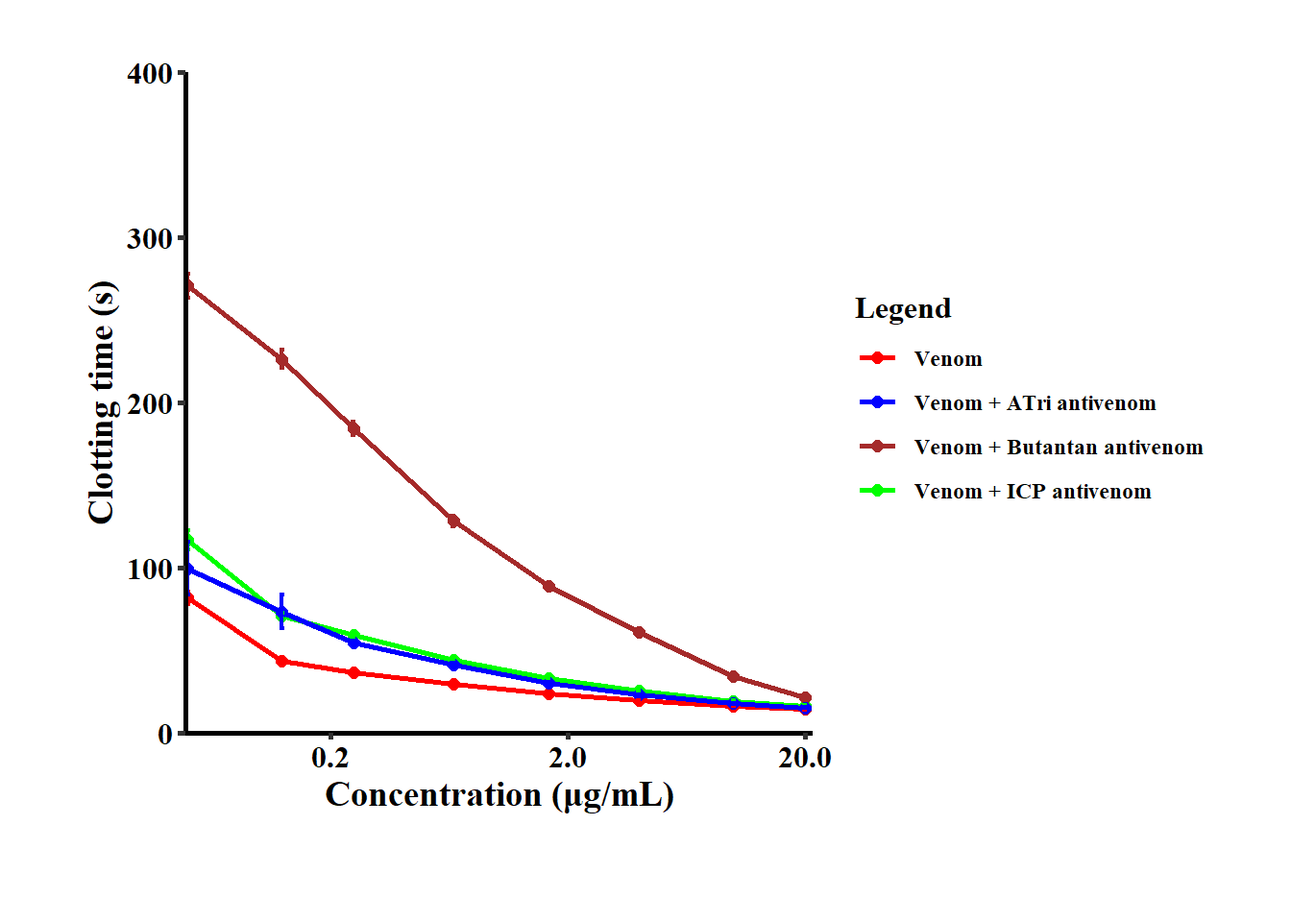
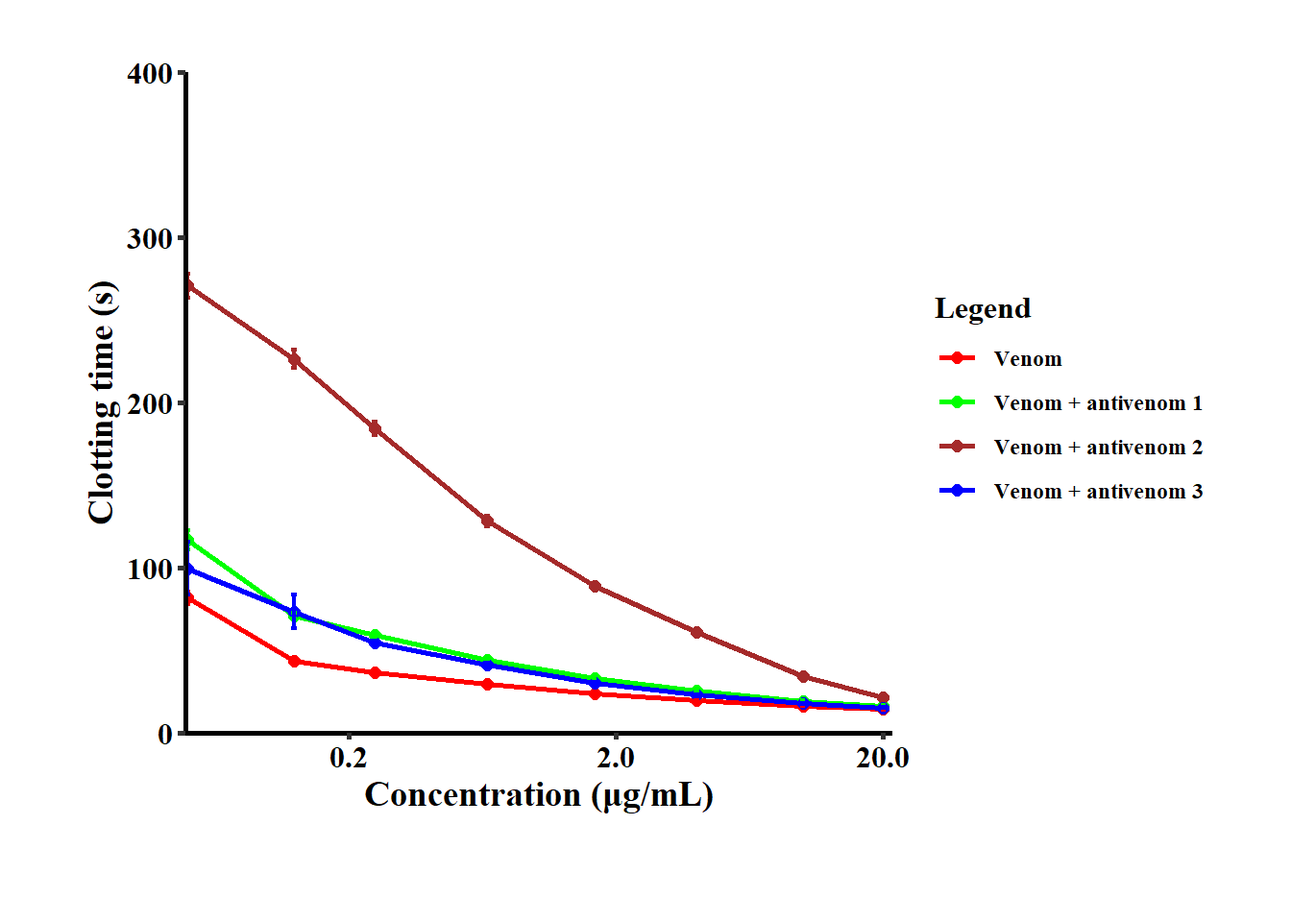
Post 1 edit

diff --git a/_site/posts/Tidy_data/index.html b/_site/posts/Tidy_data/index.html
@@ -208,7 +208,7 @@ code span.wa { color: #60a0b0; font-weight: bold; font-style: italic; } /* Warni
 
 
 
-<p>Hi everyone! In this post we are going to talk about the tidyverse, specifically how to get our data into the tidy format and why this matters when using ggplot2! Are you ready to enter the tidyverse? First things first you will need to install the package “tidyverse” and then load it in you r script using the following code.</p>
+<p>Hi everyone! In this post we are going to talk about the tidyverse, specifically how to get our data into the tidy format and why this matters when using ggplot2! Are you ready to enter the tidyverse? First things first you will need to install the package “tidyverse” and then load it in your r script using the following code.</p>
 <div class="cell">
 <div class="sourceCode cell-code" id="cb1"><pre class="sourceCode r code-with-copy"><code class="sourceCode r"><span id="cb1-1"><a href="#cb1-1" aria-hidden="true" tabindex="-1"></a><span class="fu">library</span>(tidyverse)</span></code><button title="Copy to Clipboard" class="code-copy-button"><i class="bi"></i></button></pre></div>
 <div class="cell-output cell-output-stderr">
@@ -230,8 +230,12 @@ code span.wa { color: #60a0b0; font-weight: bold; font-style: italic; } /* Warni
 ✖ dplyr::lag()    masks stats::lag()</code></pre>
 </div>
 </div>
-<p>So what is the tidyverse? Simply, ….. For more detailed information on the tidyverse and how to use it to its full advantage, see….. . One of the packages is ggplot2 - an amazing package that can be used to produce figures in R (think bar graphs, line graphs, scatter plots, etc.). For more information on this package see. Note, that this blog post isn’t an introduction to tidyverse or ggplot2, but rather highlights the importance making figures with tidy data. It is expected you have some background in these packages.</p>
-<p>So, why does tidy data matter? Well first and foremost, and the reason for this blog post, it will make your life a lot easier when making figures in ggplot2 (a package that is loaded when you load the tidyverse).</p>
+<p>So what is the tidyverse? Simply, ….. For more detailed information on the tidyverse and how to use it to its full advantage, see….. . One of the packages is ggplot2 - an amazing package that can be used to produce figures in R (think bar graphs, line graphs, scatter plots, etc.). For more information on this package see. Note, that this blog post isn’t an introduction to tidyverse or ggplot2, but rather highlights the importance making figures with tidy data. It is expected you have some background in these packages. I will quickly explain what tidy data is though!</p>
+<p>Tidy data is a way to set up your data. Simply, columns are variables, rows are observations, and each cell is a single value.</p>
+<p><img src="images/tidy-1.png" class="img-fluid"></p>
+<p>credit: <a href="https://r4ds.hadley.nz/data-tidy.html">R for Data Science (2e) - 6&nbsp; Data tidying (hadley.nz)</a></p>
+<p>I highly recommend you read this: <a href="https://www.openscapes.org/blog/2020/10/12/tidy-data/">Tidy data for efficiency, reproducibility, and collaboration (openscapes.org)</a></p>
+<p>So, why does tidy data matter? Imagine if everybody’s data sets were set up the same way! You could use the same code to work with them! It makes life easier. The reason for this blog post is that it will make your life a lot easier when making figures in ggplot2. Let’s look at an example. Below I’ve loaded in some data looking at how quickly snake X clots the blood and how well antivenom works for snake X. The first column is venom concentration, followed by three columns (three replicates) of venom with no antivenom, three columns of venom incubated with antivenom 1, three coumns of venom incubated with antivenom 2, and three columns of venom incubated with antivenom 3.</p>
 <div class="cell">
 <div class="sourceCode cell-code" id="cb6"><pre class="sourceCode r code-with-copy"><code class="sourceCode r"><span id="cb6-1"><a href="#cb6-1" aria-hidden="true" tabindex="-1"></a><span class="fu">library</span>(tidyverse)</span>
 <span id="cb6-2"><a href="#cb6-2" aria-hidden="true" tabindex="-1"></a>venom_data<span class="ot">&lt;-</span><span class="fu">read_csv</span>(<span class="st">"venom_data.csv"</span>)</span></code><button title="Copy to Clipboard" class="code-copy-button"><i class="bi"></i></button></pre></div>
@@ -262,6 +266,13 @@ dbl (13): Concentration, BC_1, BC_2, BC_3, BC_ICP1, BC_ICP2, BC_ICP3, BC_But...
 #   ⁴BC_Butantan3</code></pre>
 </div>
 </div>
+<p>Now that the data is loaded we want to modify the raw data so we have the mean and standard deviation values. We will then use this summarised data to make a plot that looks like this:</p>
+<p><img src="images/2bced39e-0d62-4c49-885d-10e4905d74be.png" class="img-fluid"></p>
+<p>Okay, let’s talk about this graph, so you can understand the data a bit better.</p>
+<ol type="1">
+<li><strong>Data not tidied! :(</strong></li>
+</ol>
+<p>Let’s summarise our data (get means and standard deviation), but not worry about tidying the data.</p>
 <div class="cell">
 <div class="sourceCode cell-code" id="cb10"><pre class="sourceCode r code-with-copy"><code class="sourceCode r"><span id="cb10-1"><a href="#cb10-1" aria-hidden="true" tabindex="-1"></a>venom_data_summarised <span class="ot">&lt;-</span> venom_data <span class="sc">%&gt;%</span> <span class="co">#Calculate standard deviation for each venom and venom + antivenom at each concentration</span></span>
 <span id="cb10-2"><a href="#cb10-2" aria-hidden="true" tabindex="-1"></a>  <span class="fu">rowwise</span>() <span class="sc">%&gt;%</span> </span>
@@ -274,44 +285,60 @@ dbl (13): Concentration, BC_1, BC_2, BC_3, BC_ICP1, BC_ICP2, BC_ICP3, BC_But...
 <span id="cb10-9"><a href="#cb10-9" aria-hidden="true" tabindex="-1"></a>    <span class="at">BC_Butantan_sd =</span> <span class="fu">sd</span>(<span class="fu">c_across</span>(BC_Butantan1<span class="sc">:</span>BC_Butantan3)),</span>
 <span id="cb10-10"><a href="#cb10-10" aria-hidden="true" tabindex="-1"></a>    <span class="at">BC_ATri_sd =</span> <span class="fu">sd</span>(<span class="fu">c_across</span>(BC_ATri1<span class="sc">:</span>BC_ATri3)))<span class="sc">%&gt;%</span></span>
 <span id="cb10-11"><a href="#cb10-11" aria-hidden="true" tabindex="-1"></a>  <span class="fu">select</span>(Concentration,BC_mean, BC_ICP_mean, BC_Butantan_mean, BC_ATri_mean, </span>
-<span id="cb10-12"><a href="#cb10-12" aria-hidden="true" tabindex="-1"></a>         BC_sd, BC_ICP_sd, BC_Butantan_sd, BC_ATri_sd)</span></code><button title="Copy to Clipboard" class="code-copy-button"><i class="bi"></i></button></pre></div>
+<span id="cb10-12"><a href="#cb10-12" aria-hidden="true" tabindex="-1"></a>         BC_sd, BC_ICP_sd, BC_Butantan_sd, BC_ATri_sd)</span>
+<span id="cb10-13"><a href="#cb10-13" aria-hidden="true" tabindex="-1"></a>venom_data_summarised</span></code><button title="Copy to Clipboard" class="code-copy-button"><i class="bi"></i></button></pre></div>
+<div class="cell-output cell-output-stdout">
+<pre><code># A tibble: 8 × 9
+# Rowwise: 
+  Concentration BC_mean BC_ICP_…¹ BC_Bu…² BC_AT…³  BC_sd BC_IC…⁴ BC_Bu…⁵ BC_AT…⁶
+          &lt;dbl&gt;   &lt;dbl&gt;     &lt;dbl&gt;   &lt;dbl&gt;   &lt;dbl&gt;  &lt;dbl&gt;   &lt;dbl&gt;   &lt;dbl&gt;   &lt;dbl&gt;
+1        20        14.2      16.1    21.1    15.2 0.115    0.252   0.321   0.100
+2        10        16.3      19.2    34.2    17.7 0.0577   0.231   0.802   0.361
+3         4        19.5      25.4    60.6    22.9 0        0.321   0.808   0.153
+4         1.66     23.6      33.1    88.9    30.1 0.503    0.252   1.45    0.777
+5         0.66     29.2      43.8   128.     40.8 0.520    1.01    3.17    1.29 
+6         0.25     36.7      58.9   184.     54.7 0.569    0.833   4.11    0.208
+7         0.125    43.2      70.8   226.     73.2 0.709    1.67    5.67   10.1  
+8         0.05     81.6     117.    271.     99.5 3.89     5.72    7.27   15.8  
+# … with abbreviated variable names ¹BC_ICP_mean, ²BC_Butantan_mean,
+#   ³BC_ATri_mean, ⁴BC_ICP_sd, ⁵BC_Butantan_sd, ⁶BC_ATri_sd</code></pre>
 </div>
-<p>Now….</p>
+</div>
+<p>With our data now summarised we can use this new data frame to make our graph.</p>
 <div class="cell">
-<div class="sourceCode cell-code" id="cb11"><pre class="sourceCode r code-with-copy"><code class="sourceCode r"><span id="cb11-1"><a href="#cb11-1" aria-hidden="true" tabindex="-1"></a><span class="fu">windowsFonts</span>(<span class="at">Times=</span><span class="fu">windowsFont</span>(<span class="st">"Times New Roman"</span>)) </span>
-<span id="cb11-2"><a href="#cb11-2" aria-hidden="true" tabindex="-1"></a></span>
-<span id="cb11-3"><a href="#cb11-3" aria-hidden="true" tabindex="-1"></a>colors <span class="ot">&lt;-</span> <span class="fu">c</span>(<span class="st">"Venom"</span><span class="ot">=</span><span class="st">"red"</span>, <span class="st">"Venom + ICP antivenom"</span><span class="ot">=</span><span class="st">"green"</span>, <span class="st">"Venom + Butantan antivenom"</span> <span class="ot">=</span> <span class="st">"brown"</span>, </span>
-<span id="cb11-4"><a href="#cb11-4" aria-hidden="true" tabindex="-1"></a>            <span class="st">"Venom + ATri antivenom"</span> <span class="ot">=</span> <span class="st">"blue"</span>)</span>
-<span id="cb11-5"><a href="#cb11-5" aria-hidden="true" tabindex="-1"></a></span>
-<span id="cb11-6"><a href="#cb11-6" aria-hidden="true" tabindex="-1"></a>BC_graph <span class="ot">&lt;-</span> <span class="fu">ggplot</span>(venom_data_summarised, <span class="fu">aes</span>(<span class="at">x=</span>Concentration)) <span class="sc">+</span></span>
-<span id="cb11-7"><a href="#cb11-7" aria-hidden="true" tabindex="-1"></a>  <span class="fu">geom_line</span>(<span class="fu">aes</span>(<span class="at">y=</span>BC_mean, <span class="at">color =</span> <span class="st">"Venom"</span>), <span class="at">linewidth =</span> <span class="dv">1</span>) <span class="sc">+</span></span>
-<span id="cb11-8"><a href="#cb11-8" aria-hidden="true" tabindex="-1"></a>  <span class="fu">geom_point</span>(<span class="fu">aes</span>(<span class="at">y=</span>BC_mean, <span class="at">colour =</span> <span class="st">"Venom"</span>), <span class="at">size =</span> <span class="dv">2</span>)<span class="sc">+</span></span>
-<span id="cb11-9"><a href="#cb11-9" aria-hidden="true" tabindex="-1"></a>  <span class="fu">geom_line</span>(<span class="fu">aes</span>(<span class="at">y=</span>BC_ICP_mean, <span class="at">color =</span> <span class="st">"Venom + ICP antivenom"</span>), <span class="at">linewidth =</span> <span class="dv">1</span>) <span class="sc">+</span></span>
-<span id="cb11-10"><a href="#cb11-10" aria-hidden="true" tabindex="-1"></a>  <span class="fu">geom_point</span>(<span class="fu">aes</span>(<span class="at">y=</span>BC_ICP_mean, <span class="at">color =</span> <span class="st">"Venom + ICP antivenom"</span>), <span class="at">size =</span> <span class="dv">2</span>) <span class="sc">+</span></span>
-<span id="cb11-11"><a href="#cb11-11" aria-hidden="true" tabindex="-1"></a>  <span class="fu">geom_line</span>(<span class="fu">aes</span>(<span class="at">y=</span>BC_Butantan_mean, <span class="at">color =</span> <span class="st">"Venom + Butantan antivenom"</span>), <span class="at">linewidth =</span> <span class="dv">1</span>) <span class="sc">+</span></span>
-<span id="cb11-12"><a href="#cb11-12" aria-hidden="true" tabindex="-1"></a>  <span class="fu">geom_point</span>(<span class="fu">aes</span>(<span class="at">y=</span>BC_Butantan_mean, <span class="at">color =</span> <span class="st">"Venom + Butantan antivenom"</span>), <span class="at">size =</span> <span class="dv">2</span>) <span class="sc">+</span></span>
-<span id="cb11-13"><a href="#cb11-13" aria-hidden="true" tabindex="-1"></a>  <span class="fu">geom_line</span>(<span class="fu">aes</span>(<span class="at">y=</span>BC_ATri_mean, <span class="at">color =</span> <span class="st">"Venom + ATri antivenom"</span>), <span class="at">linewidth =</span> <span class="dv">1</span>) <span class="sc">+</span></span>
-<span id="cb11-14"><a href="#cb11-14" aria-hidden="true" tabindex="-1"></a>  <span class="fu">geom_point</span>(<span class="fu">aes</span>(<span class="at">y=</span>BC_ATri_mean, <span class="at">color =</span> <span class="st">"Venom + ATri antivenom"</span>), <span class="at">size =</span> <span class="dv">2</span>) <span class="sc">+</span></span>
-<span id="cb11-15"><a href="#cb11-15" aria-hidden="true" tabindex="-1"></a>  <span class="fu">theme_classic</span>() <span class="sc">+</span> <span class="co">#theme</span></span>
-<span id="cb11-16"><a href="#cb11-16" aria-hidden="true" tabindex="-1"></a>  <span class="fu">theme</span>(<span class="at">plot.margin =</span> <span class="fu">margin</span>(<span class="dv">1</span>,<span class="dv">1</span>,<span class="fl">1.5</span>,<span class="fl">1.2</span>, <span class="st">"cm"</span>), <span class="co">#margins</span></span>
-<span id="cb11-17"><a href="#cb11-17" aria-hidden="true" tabindex="-1"></a>        <span class="at">axis.text =</span> <span class="fu">element_text</span>(<span class="at">face =</span> <span class="st">"bold"</span>, <span class="at">color=</span><span class="st">"black"</span>, <span class="at">family =</span> <span class="st">"Times"</span>, <span class="at">size =</span> <span class="dv">12</span>), <span class="co"># Axis text formatting</span></span>
-<span id="cb11-18"><a href="#cb11-18" aria-hidden="true" tabindex="-1"></a>        <span class="at">axis.title =</span> <span class="fu">element_text</span>(<span class="at">face =</span> <span class="st">"bold"</span>, <span class="at">color=</span><span class="st">"black"</span>, <span class="at">family =</span> <span class="st">"Times"</span>, <span class="at">size =</span> <span class="dv">14</span>),<span class="co"># Axis title text formatting</span></span>
-<span id="cb11-19"><a href="#cb11-19" aria-hidden="true" tabindex="-1"></a>        <span class="at">axis.line =</span> <span class="fu">element_line</span>(<span class="at">linewidth=</span><span class="dv">1</span>), <span class="at">axis.ticks =</span> <span class="fu">element_line</span>(<span class="at">linewidth =</span> <span class="dv">1</span>), <span class="co"># Axis line and tick size</span></span>
-<span id="cb11-20"><a href="#cb11-20" aria-hidden="true" tabindex="-1"></a>        <span class="at">legend.title =</span> <span class="fu">element_text</span>(<span class="at">face =</span> <span class="st">"bold"</span>, <span class="at">family =</span> <span class="st">"Times"</span>, <span class="at">size =</span> <span class="dv">12</span>),</span>
-<span id="cb11-21"><a href="#cb11-21" aria-hidden="true" tabindex="-1"></a>        <span class="at">legend.text =</span> <span class="fu">element_text</span>(<span class="at">face =</span> <span class="st">"bold"</span>, <span class="at">family =</span> <span class="st">"Times"</span>))<span class="sc">+</span></span>
-<span id="cb11-22"><a href="#cb11-22" aria-hidden="true" tabindex="-1"></a>  <span class="fu">scale_x_continuous</span>(<span class="at">trans =</span> <span class="st">"log10"</span>, <span class="at">breaks =</span> <span class="fu">c</span>(<span class="fl">0.2</span>, <span class="dv">2</span>, <span class="dv">20</span>), <span class="at">expand =</span> <span class="fu">expansion</span>(<span class="at">mult =</span> <span class="fu">c</span>(<span class="dv">0</span>,<span class="fl">0.01</span>)))<span class="sc">+</span> <span class="co">#log scale, breaks, and intercept of y and x axis = 0 (no gap before line graph)</span></span>
-<span id="cb11-23"><a href="#cb11-23" aria-hidden="true" tabindex="-1"></a>  <span class="fu">scale_y_continuous</span>(<span class="at">expand =</span> <span class="fu">c</span>(<span class="dv">0</span>,<span class="dv">0</span>), <span class="at">limits =</span> <span class="fu">c</span>(<span class="dv">0</span>, <span class="dv">400</span>)) <span class="sc">+</span> <span class="co">#limits</span></span>
-<span id="cb11-24"><a href="#cb11-24" aria-hidden="true" tabindex="-1"></a>  <span class="fu">labs</span>(<span class="at">x =</span> <span class="st">"Concentration (μg/mL)"</span>, <span class="at">y =</span> <span class="st">"Clotting time (s)"</span>, <span class="at">color =</span> <span class="st">"Legend"</span>)<span class="sc">+</span></span>
-<span id="cb11-25"><a href="#cb11-25" aria-hidden="true" tabindex="-1"></a>  <span class="fu">scale_color_manual</span>(<span class="at">values =</span> colors) <span class="sc">+</span></span>
-<span id="cb11-26"><a href="#cb11-26" aria-hidden="true" tabindex="-1"></a>  <span class="fu">geom_errorbar</span>(<span class="fu">aes</span>(<span class="at">ymin=</span>BC_mean<span class="sc">-</span>BC_sd, <span class="at">ymax=</span>BC_mean<span class="sc">+</span>BC_sd), <span class="at">width =</span> <span class="fl">0.02</span>, <span class="at">size =</span> <span class="fl">0.8</span>, <span class="at">color =</span> <span class="st">"red"</span>) <span class="sc">+</span></span>
-<span id="cb11-27"><a href="#cb11-27" aria-hidden="true" tabindex="-1"></a>  <span class="fu">geom_errorbar</span>(<span class="fu">aes</span>(<span class="at">ymin=</span>BC_ICP_mean<span class="sc">-</span>BC_ICP_sd, <span class="at">ymax=</span>BC_ICP_mean<span class="sc">+</span>BC_ICP_sd), <span class="at">width =</span> <span class="fl">0.02</span>, <span class="at">size =</span> <span class="fl">0.8</span>, <span class="at">color =</span> <span class="st">"green"</span>) <span class="sc">+</span></span>
-<span id="cb11-28"><a href="#cb11-28" aria-hidden="true" tabindex="-1"></a>  <span class="fu">geom_errorbar</span>(<span class="fu">aes</span>(<span class="at">ymin=</span>BC_Butantan_mean<span class="sc">-</span>BC_Butantan_sd, <span class="at">ymax=</span>BC_Butantan_mean<span class="sc">+</span>BC_Butantan_sd), <span class="at">width =</span> <span class="fl">0.02</span>, <span class="at">size =</span> <span class="fl">0.8</span>, <span class="at">color =</span> <span class="st">"brown"</span>) <span class="sc">+</span></span>
-<span id="cb11-29"><a href="#cb11-29" aria-hidden="true" tabindex="-1"></a>  <span class="fu">geom_errorbar</span>(<span class="fu">aes</span>(<span class="at">ymin=</span>BC_ATri_mean<span class="sc">-</span>BC_ATri_sd, <span class="at">ymax=</span>BC_ATri_mean<span class="sc">+</span>BC_ATri_sd),<span class="at">width =</span> <span class="fl">0.02</span>, <span class="at">size =</span> <span class="fl">0.8</span>, <span class="at">color =</span> <span class="st">"blue"</span>) </span></code><button title="Copy to Clipboard" class="code-copy-button"><i class="bi"></i></button></pre></div>
+<div class="sourceCode cell-code" id="cb12"><pre class="sourceCode r code-with-copy"><code class="sourceCode r"><span id="cb12-1"><a href="#cb12-1" aria-hidden="true" tabindex="-1"></a><span class="fu">windowsFonts</span>(<span class="at">Times=</span><span class="fu">windowsFont</span>(<span class="st">"Times New Roman"</span>)) </span>
+<span id="cb12-2"><a href="#cb12-2" aria-hidden="true" tabindex="-1"></a></span>
+<span id="cb12-3"><a href="#cb12-3" aria-hidden="true" tabindex="-1"></a>colors <span class="ot">&lt;-</span> <span class="fu">c</span>(<span class="st">"Venom"</span><span class="ot">=</span><span class="st">"red"</span>, <span class="st">"Venom + antivenom 1"</span><span class="ot">=</span><span class="st">"green"</span>, <span class="st">"Venom + antivenom 2"</span> <span class="ot">=</span> <span class="st">"brown"</span>, <span class="st">"Venom + antivenom 3"</span> <span class="ot">=</span> <span class="st">"blue"</span>)</span>
+<span id="cb12-4"><a href="#cb12-4" aria-hidden="true" tabindex="-1"></a></span>
+<span id="cb12-5"><a href="#cb12-5" aria-hidden="true" tabindex="-1"></a>BC_graph <span class="ot">&lt;-</span> <span class="fu">ggplot</span>(venom_data_summarised, <span class="fu">aes</span>(<span class="at">x=</span>Concentration)) <span class="sc">+</span></span>
+<span id="cb12-6"><a href="#cb12-6" aria-hidden="true" tabindex="-1"></a>  <span class="fu">geom_line</span>(<span class="fu">aes</span>(<span class="at">y=</span>BC_mean, <span class="at">color =</span> <span class="st">"Venom"</span>), <span class="at">linewidth =</span> <span class="dv">1</span>) <span class="sc">+</span></span>
+<span id="cb12-7"><a href="#cb12-7" aria-hidden="true" tabindex="-1"></a>  <span class="fu">geom_point</span>(<span class="fu">aes</span>(<span class="at">y=</span>BC_mean, <span class="at">colour =</span> <span class="st">"Venom"</span>), <span class="at">size =</span> <span class="dv">2</span>)<span class="sc">+</span></span>
+<span id="cb12-8"><a href="#cb12-8" aria-hidden="true" tabindex="-1"></a>  <span class="fu">geom_line</span>(<span class="fu">aes</span>(<span class="at">y=</span>BC_ICP_mean, <span class="at">color =</span> <span class="st">"Venom + antivenom 1"</span>), <span class="at">linewidth =</span> <span class="dv">1</span>) <span class="sc">+</span></span>
+<span id="cb12-9"><a href="#cb12-9" aria-hidden="true" tabindex="-1"></a>  <span class="fu">geom_point</span>(<span class="fu">aes</span>(<span class="at">y=</span>BC_ICP_mean, <span class="at">color =</span> <span class="st">"Venom + antivenom 1"</span>), <span class="at">size =</span> <span class="dv">2</span>) <span class="sc">+</span></span>
+<span id="cb12-10"><a href="#cb12-10" aria-hidden="true" tabindex="-1"></a>  <span class="fu">geom_line</span>(<span class="fu">aes</span>(<span class="at">y=</span>BC_Butantan_mean, <span class="at">color =</span> <span class="st">"Venom + antivenom 2"</span>), <span class="at">linewidth =</span> <span class="dv">1</span>) <span class="sc">+</span></span>
+<span id="cb12-11"><a href="#cb12-11" aria-hidden="true" tabindex="-1"></a>  <span class="fu">geom_point</span>(<span class="fu">aes</span>(<span class="at">y=</span>BC_Butantan_mean, <span class="at">color =</span> <span class="st">"Venom + antivenom 2"</span>), <span class="at">size =</span> <span class="dv">2</span>) <span class="sc">+</span></span>
+<span id="cb12-12"><a href="#cb12-12" aria-hidden="true" tabindex="-1"></a>  <span class="fu">geom_line</span>(<span class="fu">aes</span>(<span class="at">y=</span>BC_ATri_mean, <span class="at">color =</span> <span class="st">"Venom + antivenom 3"</span>), <span class="at">linewidth =</span> <span class="dv">1</span>) <span class="sc">+</span></span>
+<span id="cb12-13"><a href="#cb12-13" aria-hidden="true" tabindex="-1"></a>  <span class="fu">geom_point</span>(<span class="fu">aes</span>(<span class="at">y=</span>BC_ATri_mean, <span class="at">color =</span> <span class="st">"Venom + antivenom 3"</span>), <span class="at">size =</span> <span class="dv">2</span>) <span class="sc">+</span></span>
+<span id="cb12-14"><a href="#cb12-14" aria-hidden="true" tabindex="-1"></a>  <span class="fu">theme_classic</span>() <span class="sc">+</span> <span class="co">#theme</span></span>
+<span id="cb12-15"><a href="#cb12-15" aria-hidden="true" tabindex="-1"></a>  <span class="fu">theme</span>(<span class="at">plot.margin =</span> <span class="fu">margin</span>(<span class="dv">1</span>,<span class="dv">1</span>,<span class="fl">1.5</span>,<span class="fl">1.2</span>, <span class="st">"cm"</span>), <span class="co">#margins</span></span>
+<span id="cb12-16"><a href="#cb12-16" aria-hidden="true" tabindex="-1"></a>        <span class="at">axis.text =</span> <span class="fu">element_text</span>(<span class="at">face =</span> <span class="st">"bold"</span>, <span class="at">color=</span><span class="st">"black"</span>, <span class="at">family =</span> <span class="st">"Times"</span>, <span class="at">size =</span> <span class="dv">12</span>), <span class="co"># Axis text formatting</span></span>
+<span id="cb12-17"><a href="#cb12-17" aria-hidden="true" tabindex="-1"></a>        <span class="at">axis.title =</span> <span class="fu">element_text</span>(<span class="at">face =</span> <span class="st">"bold"</span>, <span class="at">color=</span><span class="st">"black"</span>, <span class="at">family =</span> <span class="st">"Times"</span>, <span class="at">size =</span> <span class="dv">14</span>),<span class="co"># Axis title text formatting</span></span>
+<span id="cb12-18"><a href="#cb12-18" aria-hidden="true" tabindex="-1"></a>        <span class="at">axis.line =</span> <span class="fu">element_line</span>(<span class="at">linewidth=</span><span class="dv">1</span>), <span class="at">axis.ticks =</span> <span class="fu">element_line</span>(<span class="at">linewidth =</span> <span class="dv">1</span>), <span class="co"># Axis line and tick size</span></span>
+<span id="cb12-19"><a href="#cb12-19" aria-hidden="true" tabindex="-1"></a>        <span class="at">legend.title =</span> <span class="fu">element_text</span>(<span class="at">face =</span> <span class="st">"bold"</span>, <span class="at">family =</span> <span class="st">"Times"</span>, <span class="at">size =</span> <span class="dv">12</span>),</span>
+<span id="cb12-20"><a href="#cb12-20" aria-hidden="true" tabindex="-1"></a>        <span class="at">legend.text =</span> <span class="fu">element_text</span>(<span class="at">face =</span> <span class="st">"bold"</span>, <span class="at">family =</span> <span class="st">"Times"</span>))<span class="sc">+</span></span>
+<span id="cb12-21"><a href="#cb12-21" aria-hidden="true" tabindex="-1"></a>  <span class="fu">scale_x_continuous</span>(<span class="at">trans =</span> <span class="st">"log10"</span>, <span class="at">breaks =</span> <span class="fu">c</span>(<span class="fl">0.2</span>, <span class="dv">2</span>, <span class="dv">20</span>), <span class="at">expand =</span> <span class="fu">expansion</span>(<span class="at">mult =</span> <span class="fu">c</span>(<span class="dv">0</span>,<span class="fl">0.01</span>)))<span class="sc">+</span> <span class="co">#log scale, breaks, and intercept of y and x axis = 0 (no gap before line graph)</span></span>
+<span id="cb12-22"><a href="#cb12-22" aria-hidden="true" tabindex="-1"></a>  <span class="fu">scale_y_continuous</span>(<span class="at">expand =</span> <span class="fu">c</span>(<span class="dv">0</span>,<span class="dv">0</span>), <span class="at">limits =</span> <span class="fu">c</span>(<span class="dv">0</span>, <span class="dv">400</span>)) <span class="sc">+</span> <span class="co">#limits</span></span>
+<span id="cb12-23"><a href="#cb12-23" aria-hidden="true" tabindex="-1"></a>  <span class="fu">labs</span>(<span class="at">x =</span> <span class="st">"Concentration (μg/mL)"</span>, <span class="at">y =</span> <span class="st">"Clotting time (s)"</span>, <span class="at">color =</span> <span class="st">"Legend"</span>)<span class="sc">+</span></span>
+<span id="cb12-24"><a href="#cb12-24" aria-hidden="true" tabindex="-1"></a>  <span class="fu">scale_color_manual</span>(<span class="at">values =</span> colors) <span class="sc">+</span></span>
+<span id="cb12-25"><a href="#cb12-25" aria-hidden="true" tabindex="-1"></a>  <span class="fu">geom_errorbar</span>(<span class="fu">aes</span>(<span class="at">ymin=</span>BC_mean<span class="sc">-</span>BC_sd, <span class="at">ymax=</span>BC_mean<span class="sc">+</span>BC_sd), <span class="at">width =</span> <span class="fl">0.02</span>, <span class="at">size =</span> <span class="fl">0.8</span>, <span class="at">color =</span> <span class="st">"red"</span>) <span class="sc">+</span></span>
+<span id="cb12-26"><a href="#cb12-26" aria-hidden="true" tabindex="-1"></a>  <span class="fu">geom_errorbar</span>(<span class="fu">aes</span>(<span class="at">ymin=</span>BC_ICP_mean<span class="sc">-</span>BC_ICP_sd, <span class="at">ymax=</span>BC_ICP_mean<span class="sc">+</span>BC_ICP_sd), <span class="at">width =</span> <span class="fl">0.02</span>, <span class="at">size =</span> <span class="fl">0.8</span>, <span class="at">color =</span> <span class="st">"green"</span>) <span class="sc">+</span></span>
+<span id="cb12-27"><a href="#cb12-27" aria-hidden="true" tabindex="-1"></a>  <span class="fu">geom_errorbar</span>(<span class="fu">aes</span>(<span class="at">ymin=</span>BC_Butantan_mean<span class="sc">-</span>BC_Butantan_sd, <span class="at">ymax=</span>BC_Butantan_mean<span class="sc">+</span>BC_Butantan_sd), <span class="at">width =</span> <span class="fl">0.02</span>, <span class="at">size =</span> <span class="fl">0.8</span>, <span class="at">color =</span> <span class="st">"brown"</span>) <span class="sc">+</span></span>
+<span id="cb12-28"><a href="#cb12-28" aria-hidden="true" tabindex="-1"></a>  <span class="fu">geom_errorbar</span>(<span class="fu">aes</span>(<span class="at">ymin=</span>BC_ATri_mean<span class="sc">-</span>BC_ATri_sd, <span class="at">ymax=</span>BC_ATri_mean<span class="sc">+</span>BC_ATri_sd),<span class="at">width =</span> <span class="fl">0.02</span>, <span class="at">size =</span> <span class="fl">0.8</span>, <span class="at">color =</span> <span class="st">"blue"</span>) </span></code><button title="Copy to Clipboard" class="code-copy-button"><i class="bi"></i></button></pre></div>
 <div class="cell-output cell-output-stderr">
 <pre><code>Warning: Using `size` aesthetic for lines was deprecated in ggplot2 3.4.0.
 ℹ Please use `linewidth` instead.</code></pre>
 </div>
-<div class="sourceCode cell-code" id="cb13"><pre class="sourceCode r code-with-copy"><code class="sourceCode r"><span id="cb13-1"><a href="#cb13-1" aria-hidden="true" tabindex="-1"></a>BC_graph</span></code><button title="Copy to Clipboard" class="code-copy-button"><i class="bi"></i></button></pre></div>
+<div class="sourceCode cell-code" id="cb14"><pre class="sourceCode r code-with-copy"><code class="sourceCode r"><span id="cb14-1"><a href="#cb14-1" aria-hidden="true" tabindex="-1"></a>BC_graph</span></code><button title="Copy to Clipboard" class="code-copy-button"><i class="bi"></i></button></pre></div>
 <div class="cell-output-display">
 <p><img src="index_files/figure-html/unnamed-chunk-4-1.png" class="img-fluid" width="672"></p>
 </div>

diff --git a/_site/index.html b/_site/index.html
@@ -167,7 +167,7 @@ ul.task-list li input[type="checkbox"] {
 
 <div class="quarto-listing quarto-listing-container-default" id="listing-listing">
 <div class="list quarto-listing-default">
-<div class="quarto-post image-right" data-index="0" data-categories="news,code,analysis" data-listing-date-sort="1667311200000" data-listing-file-modified-sort="1671059225015" data-listing-reading-time-sort="3.2">
+<div class="quarto-post image-right" data-index="0" data-categories="news,code,analysis" data-listing-date-sort="1667311200000" data-listing-file-modified-sort="1671061251370" data-listing-reading-time-sort="4.245">
 <div class="thumbnail">
 <p><a href="./posts/Tidy_data/index.html"> <img src="./posts/Tidy_data/image.jpg" class="thumnail-image"> </a></p>
 </div>
